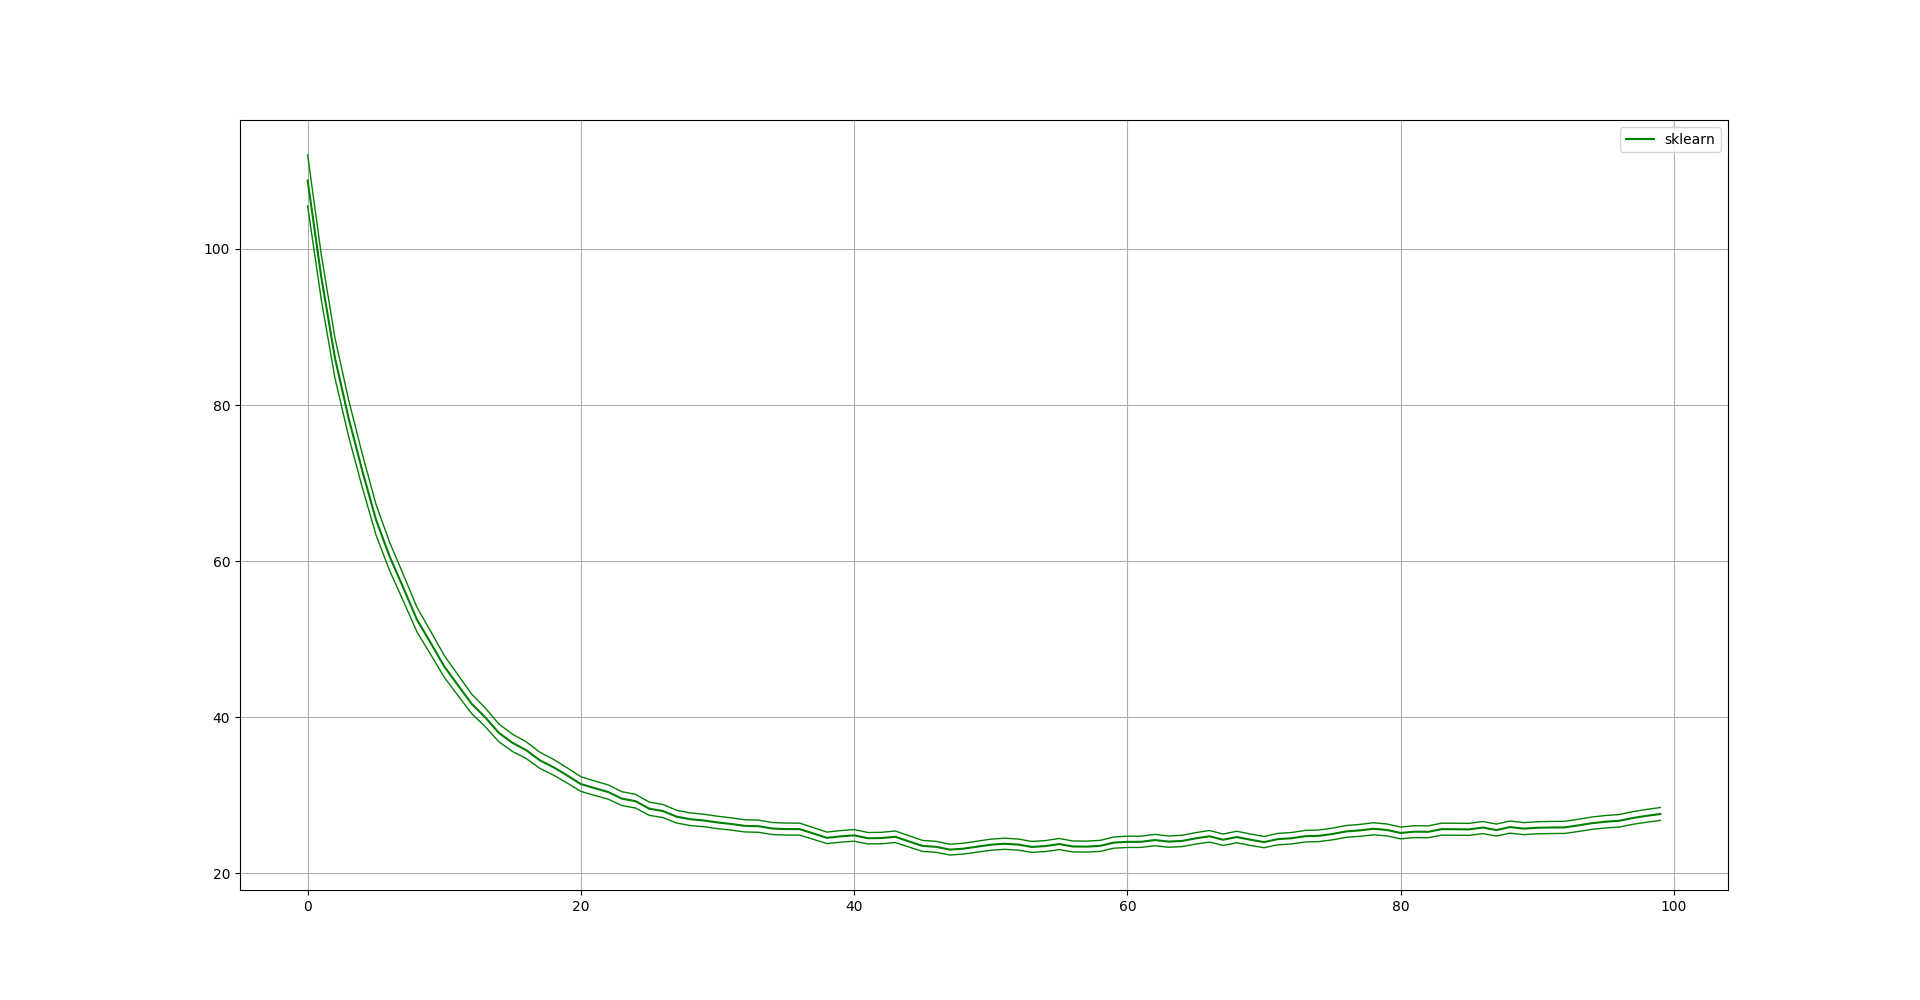
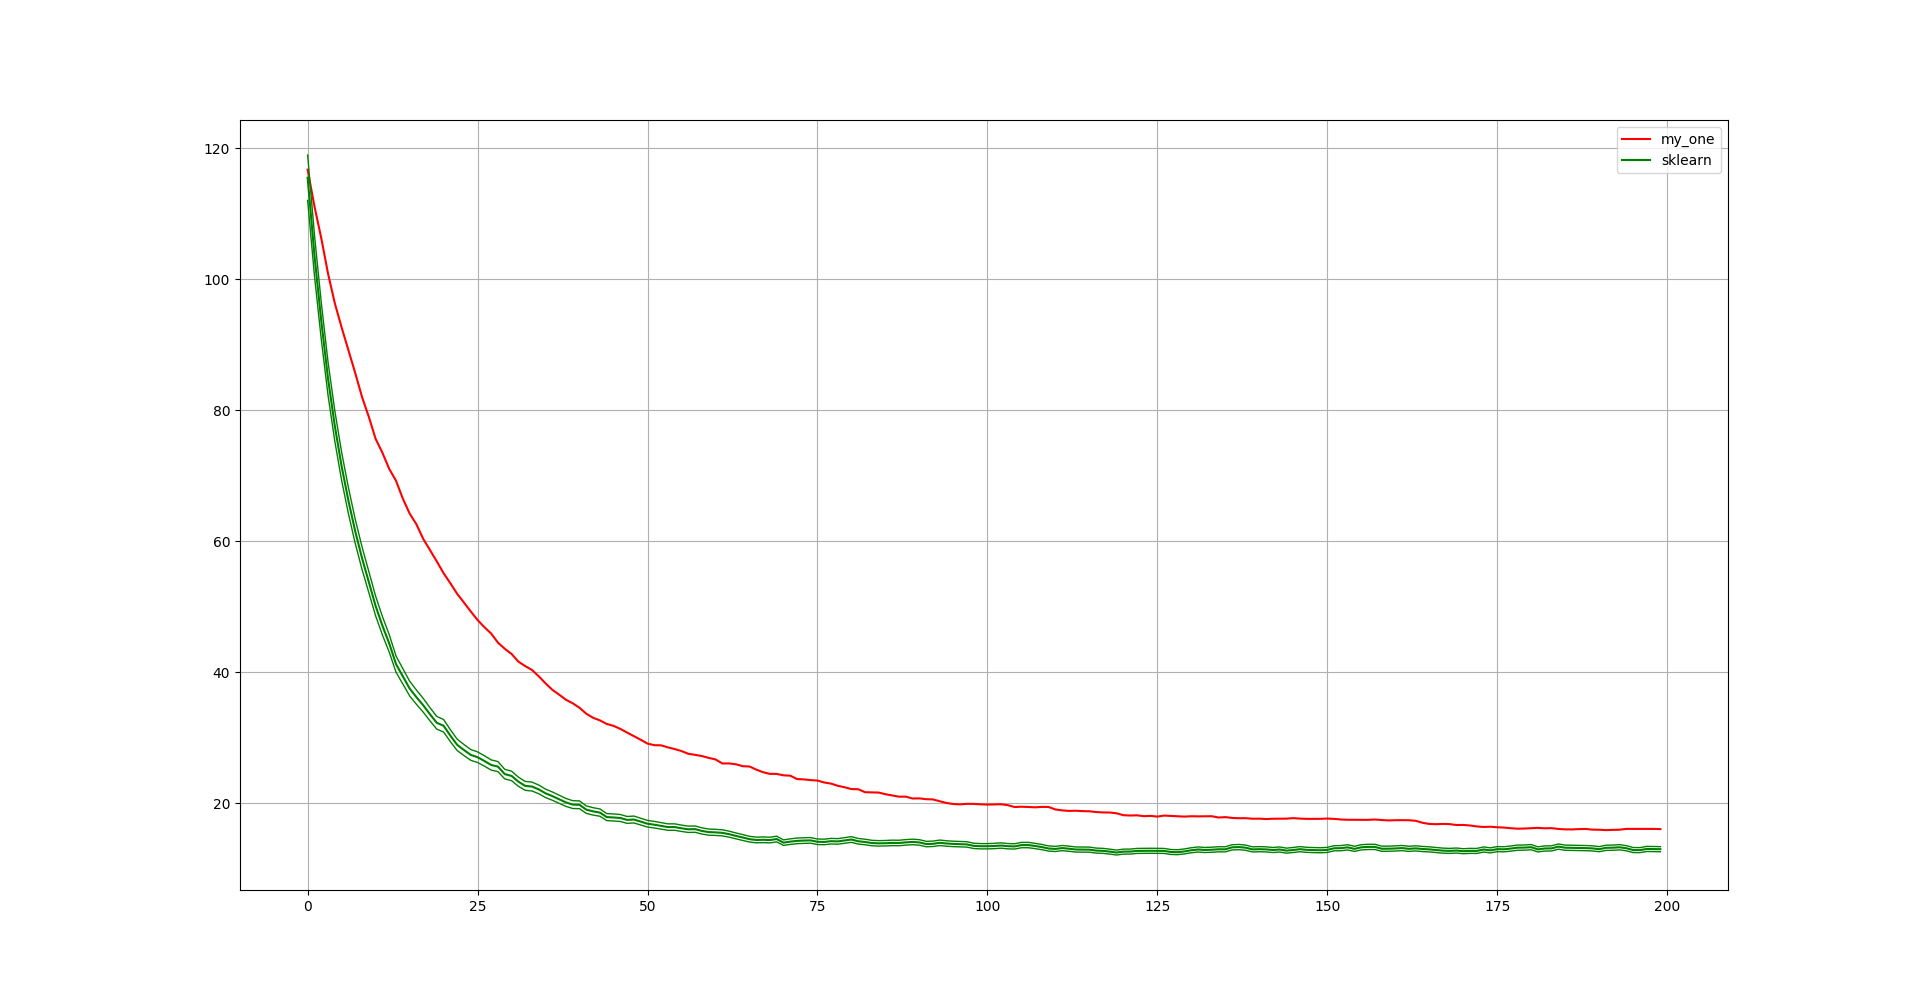
oh shit here we go again

Changed region(s): [[0.1562, 0.186, 0.875, 0.868], [0.8438, 0.124, 0.9062, 0.186], [0.3125, 0.713, 0.3438, 0.744]]

diff --git a/ml3/hw/1/gradient_boosting.py b/ml3/hw/1/gradient_boosting.py
@@ -35,7 +35,7 @@ class GradientBoostingClassifier:
 
     def __init__(self, learning_rate=0.1, n_estimators=100, subsample=1.0, 
             criterion="mse", min_samples_split=2, min_samples_leaf=1,
-            max_depth=3):
+            max_depth=3, max_features=1.0):
         """
         Initialize gradient boosting classifier with logistic loss function
 
@@ -58,8 +58,9 @@ class GradientBoostingClassifier:
         self.min_samples_split = min_samples_split
         self.min_samples_leaf = min_samples_leaf
         self.max_depth = max_depth
+        self.max_features = max_features
 
-    def fit(self, X_train: np.array, y_train: np.array, X_test, y_test):
+    def fit(self, X_train: np.array, y_train: np.array, X_test=None, y_test=None):
         """
         Train model using given dataset.
 
@@ -75,17 +76,26 @@ class GradientBoostingClassifier:
         self.predictions_array = np.empty([self.n_estimators, X_train.shape[0]])
         
         self.initialize_model(X_train, y_train)
-        print(self.accuracy_array[-1], np.array(self.accuracy_array[-10:]).var())
         depth = 1
-        last_increase = 0
-        for i in range(self.n_estimators - 1):
-            if np.array(self.accuracy_array[-10:]).var() < 1e-4 and last_increase + 10 < i:
-                depth += 1
-                last_increase = i
-                print("Increase depth")
+        #last_increase = 0
+        for i in range(self.n_estimators):
+            #if i % 33 == 0:
+            #if np.array(self.accuracy_array[-10:]).var() < 1e-4 and last_increase + 10 < i:
+            #depth += 1
+            #last_increase = i
+            #    print("Increase depth")
             self.add_estimator(X_train, y_train, depth)
-            print(self.accuracy_array[-1], np.array(self.accuracy_array[-10:]).var())
         return self
+
+    def staged_predict_proba(self, X):
+        n_samples = X.shape[0]
+        result = np.zeros([self.n_estimators, n_samples])
+
+        result[0] = self.estimators_array[0].predict(X).reshape(-1)
+        result[0] += self.learning_rate * self.estimators_array[1].predict(X).reshape(-1)
+        for i, estimator in enumerate(self.estimators_array[2:], 1):
+            result[i] = result[i - 1] + self.learning_rate * estimator.predict(X).reshape(-1)
+        return 1 / (1 + np.exp(-result))
 
     def predict_proba(self, X: np.array) -> np.array:
         """
@@ -100,18 +110,14 @@ class GradientBoostingClassifier:
         prediction : np.array of shape [n_samples]
             Probabilities of 1 class.
         """
-        n_samples = X.shape[0]
-        result = np.zeros(n_samples)
-        for estimator in self.estimators_array:
-            result += self.learning_rate * estimator.predict(X).reshape(-1)
-        return 1 / (1 + np.exp(-result))
+        return self.staged_predict_proba(X)[-1]
 
     def predict(self, X: np.array):
         return self.predict_proba(X).round()
 
-    def score(self, X, y_true):
-        y_pred = self.predict(X)
-        return accuracy_score(y_true, y_pred)
+    #def score(self, X, y_true):
+    #    y_pred = self.predict(X)
+    #    return accuracy_score(y_true, y_pred)
 
     @property
     def estimators_cnt(self):
@@ -119,14 +125,14 @@ class GradientBoostingClassifier:
 
     @property
     def last_prediction(self):
-        margin = self.predictions_array[self.estimators_cnt - 1]
+        margin = self.last_margin
         return 1 / (1 + np.exp(-margin))
 
     def initialize_model(self, X, y):
         model = ConstModel().fit(-math.log(1 / y.mean() - 1))
         self.estimators_array.append(model)
-        self.predictions_array[0] = np.array(model.predict(X)).reshape(-1)
-        self.accuracy_array.append(accuracy_score(y, self.last_prediction.round()))
+        self.last_margin = model.predict(X).reshape(-1)
+        #self.accuracy_array.append(accuracy_score(y, self.last_prediction.round()))
     
     def add_estimator(self, X, y, depth):
         target = y - self.last_prediction
@@ -134,15 +140,14 @@ class GradientBoostingClassifier:
             max_depth=depth,
             min_samples_split=self.min_samples_split,
             min_samples_leaf=self.min_samples_leaf,
-            subsample=self.subsample).fit(X, target)
-        
-        self.predictions_array[self.estimators_cnt - 1] = self.predictions_array[self.estimators_cnt - 2]
-        self.predictions_array[self.estimators_cnt - 1] += self.learning_rate * model.predict(X).reshape(-1)
+            subsample=self.subsample,
+            max_features=self.max_features).fit(X, target)
+
+        self.last_margin = self.last_margin + self.learning_rate * model.predict(X).reshape(-1)
        
-        self.accuracy_array.append(accuracy_score(y, self.last_prediction.round()))
+        # self.accuracy_array.append(accuracy_score(y, self.last_prediction.round()))
         self.estimators_array.append(model)
     
     def print_statistic(self, X_train, y_train, X_test, y_test, iteration):
         print("Iteration # {:<3}- ".format(iteration) + "train score: " + str(self.score(X_train, y_train)) +
             " - test score: " + str(self.score(X_test, y_test)))
-

diff --git a/ml3/hw/1/test_gradient_boosting.py b/ml3/hw/1/test_gradient_boosting.py
@@ -41,24 +41,56 @@ def test_score(dataset):
     model = SklearnGradientBoostingClassifier(n_estimators=n_estimators)
     X_train, X_test, y_train, y_test = dataset
     model.fit(X_train, y_train)
-    prediction = np.empty([n_estimators, X_test.shape[0]])
-    for i, proba in enumerate(model.staged_predict_proba(X_test)):
+    prediction = np.empty([n_estimators, X_train.shape[0]])
+    for i, proba in enumerate(model.staged_predict_proba(X_train)):
         prediction[i] = proba[:, 1]
-    y = (- y_test * np.log(prediction) - (1 - y_test) * np.log(1 - prediction)).sum(axis=1)
+    y = (- y_train * np.log(prediction) - (1 - y_train) * np.log(1 - prediction)).sum(axis=1)
 
     board = DashBoard()
     board.init_graph(name="baseline", title="sklearn", line_type="baseline", c="g", y=y.reshape(-1))
     board.make_plot()
 
-def test_my_score(dataset):
-    return
-    n_estimators = 100
-    model = GradientBoostingClassifier(n_estimators=n_estimators)
+def loss(y_true, y_pred):
+    return (- y_true * np.log(y_pred) - (1 - y_true) * np.log(1 - y_pred)).sum(axis=1)
+
+
+def test_real_data(dataset):
+    #X_train, X_test, y_train, y_test = DataLoader().load()
     X_train, X_test, y_train, y_test = dataset
+    
+    
+    n_estimators = 200
+    model = GradientBoostingClassifier(
+        n_estimators=n_estimators, 
+        max_depth=1, 
+        min_samples_split=20,
+        subsample=0.5,
+        learning_rate=0.1,
+        #max_features=0.8,
+        min_samples_leaf=10)
     model.fit(X_train, y_train)
-    prediction = model.staged_predict_proba(X_train)
-    y = (- y_test * np.log(prediction) - (1 - y_test) * np.log(1 - prediction)).sum(axis=1)
+    prediction = model.staged_predict_proba(X_test)
+    y = loss(y_test, prediction)
 
     board = DashBoard()
     board.init_graph(name="my_one", title="my_one", line_type="default", c="r", y=y.reshape(-1))
+    
+    model = SklearnGradientBoostingClassifier(
+        n_estimators=n_estimators,
+        max_depth=2,
+        criterion="mse",
+        min_samples_split=20,
+        min_samples_leaf=10,
+        subsample=0.5,
+        learning_rate=0.1,
+        #max_features=0.1,
+        init="zero")
+    model.fit(X_train, y_train)
+    prediction = np.empty([n_estimators, X_test.shape[0]])
+    for i, proba in enumerate(model.staged_predict_proba(X_test)):
+        prediction[i] = proba[:, 1]
+    y = loss(y_test, prediction)
+
+    board.init_graph(name="baseline", title="sklearn", line_type="baseline", c="g", y=y.reshape(-1))
     board.make_plot()
+

diff --git a/ml3/hw/1/decision_tree_regressor.py b/ml3/hw/1/decision_tree_regressor.py
@@ -43,7 +43,8 @@ class BaseDecisionTree(metaclass=abc.ABCMeta):
 
 class DecisionTreeRegressor(BaseDecisionTree):
     
-    def __init__(self, criterion="mse", min_samples_split=3, min_samples_leaf=3, max_depth=None, subsample=1.0):
+    def __init__(self, criterion="mse", min_samples_split=3, min_samples_leaf=3, max_depth=None, subsample=1.0,
+            max_features=1.0):
         """
         Initialize Decision tree regressor.
 
@@ -70,6 +71,7 @@ class DecisionTreeRegressor(BaseDecisionTree):
         self.max_depth = max_depth
         self.min_samples_split = min_samples_split
         self.min_samples_leaf = min_samples_leaf
+        self.max_features = max_features
 
     # TODO transform classes to 0 - N classes
     def fit(self, X: np.ndarray, y: np.ndarray):
@@ -91,7 +93,9 @@ class DecisionTreeRegressor(BaseDecisionTree):
         """
         self.n_features = X.shape[1]
         idx = np.random.choice(X.shape[0], round(X.shape[0] * self.subsample), replace=False)
+        #features = np.random.choice(self.n_features, round(self.n_features * self.max_features), replace=False)
         self.root = self.create_node(X[idx], y[idx], depth=0)
+        #self.root = self.create_node(X, y, depth=0)
         return self
 
     def predict(self, X: np.ndarray) -> np.ndarray:
@@ -110,7 +114,7 @@ class DecisionTreeRegressor(BaseDecisionTree):
         """
         return np.array([self.root.predict(sample) for sample in X]).reshape(-1, 1)
 
-    def score(self, X: np.ndarray, y_true: np.ndarray, metrics="r2_score") -> float:
+    def score(self, X: np.ndarray, y_true: np.ndarray, metrics="mse") -> float:
         """
         Mean Squared Error score.
         

diff --git a/ml3/hw/1/test_decision_tree_regressor.py b/ml3/hw/1/test_decision_tree_regressor.py
@@ -5,6 +5,7 @@ from decision_tree_regressor import DecisionTreeRegressor
 from sklearn import datasets
 from dataloader import DataLoader
 from time import time
+from sklearn.metrics import mean_squared_error
 import numpy as np
 
 @pytest.fixture
@@ -19,15 +20,23 @@ def dataset():
     test_dataset = datasets.load_diabetes()
     X = test_dataset.data
     y = test_dataset.target
-    return train_test_split(X, y, test_size=0.33, random_state=42)
+    return train_test_split(X, y, test_size=0.3, random_state=42)
 
 def test_regressor(dataset):
-    X_train, X_test, y_train, y_test = dataset
-    my_regressor = DecisionTreeRegressor(max_depth=1)
+    #X_train, X_test, y_train, y_test = dataset
+    X_train, X_test, y_train, y_test = DataLoader().load()
+    my_regressor = DecisionTreeRegressor(max_depth=4, min_samples_split=2, min_samples_leaf=1)
     my_regressor.fit(X_train, y_train)
-    print(my_regressor.score(X_test, y_test))
+    my_score = my_regressor.score(X_test, y_test)
+    
+    regressor = SklearnDecisionTreeRegressor(max_depth=4, min_samples_split=2, min_samples_leaf=1)
+    regressor.fit(X_train, y_train)
+    sklearn_score = mean_squared_error(y_test, regressor.predict(X_test))
+    
+    print("MY: {}/ Sklearn: {}".format(my_score, sklearn_score))
 
 def test_highload():
+    return 0
     X_train, X_test, y_train, y_test = DataLoader().load()
     
     regressor = SklearnDecisionTreeRegressor(max_depth=20)

diff --git a/ml3/hw/1/dataloader.py b/ml3/hw/1/dataloader.py
@@ -11,9 +11,15 @@ def processing(dataset):
 
 class DataLoader():
     
+    def __init__(self, train_fract=0.7, valid_fract=0.1, test_fract=0.2):
+        #assert train_fract + valid_gract + test_gract == 1
+
+        self.train_fract = train_fract
+        self.test_fract = test_fract
+        self.valid_fract = valid_fract
 
     @processing
-    def __load_dataset(self, filepath: str):
+    def __load_dataset(self, filepath: str,):
         """
         Load tsv dataset from filepath
 
@@ -25,6 +31,7 @@ class DataLoader():
         -------
         X, y : np.array of shape [n_samples, n_features] and [n_samples] respectively
         """
+        
         df = pd.read_csv(filepath, sep=" ")
         X, y = df.iloc[:, 1:].to_numpy(), df.iloc[:, 0].to_numpy()
         return X, y
